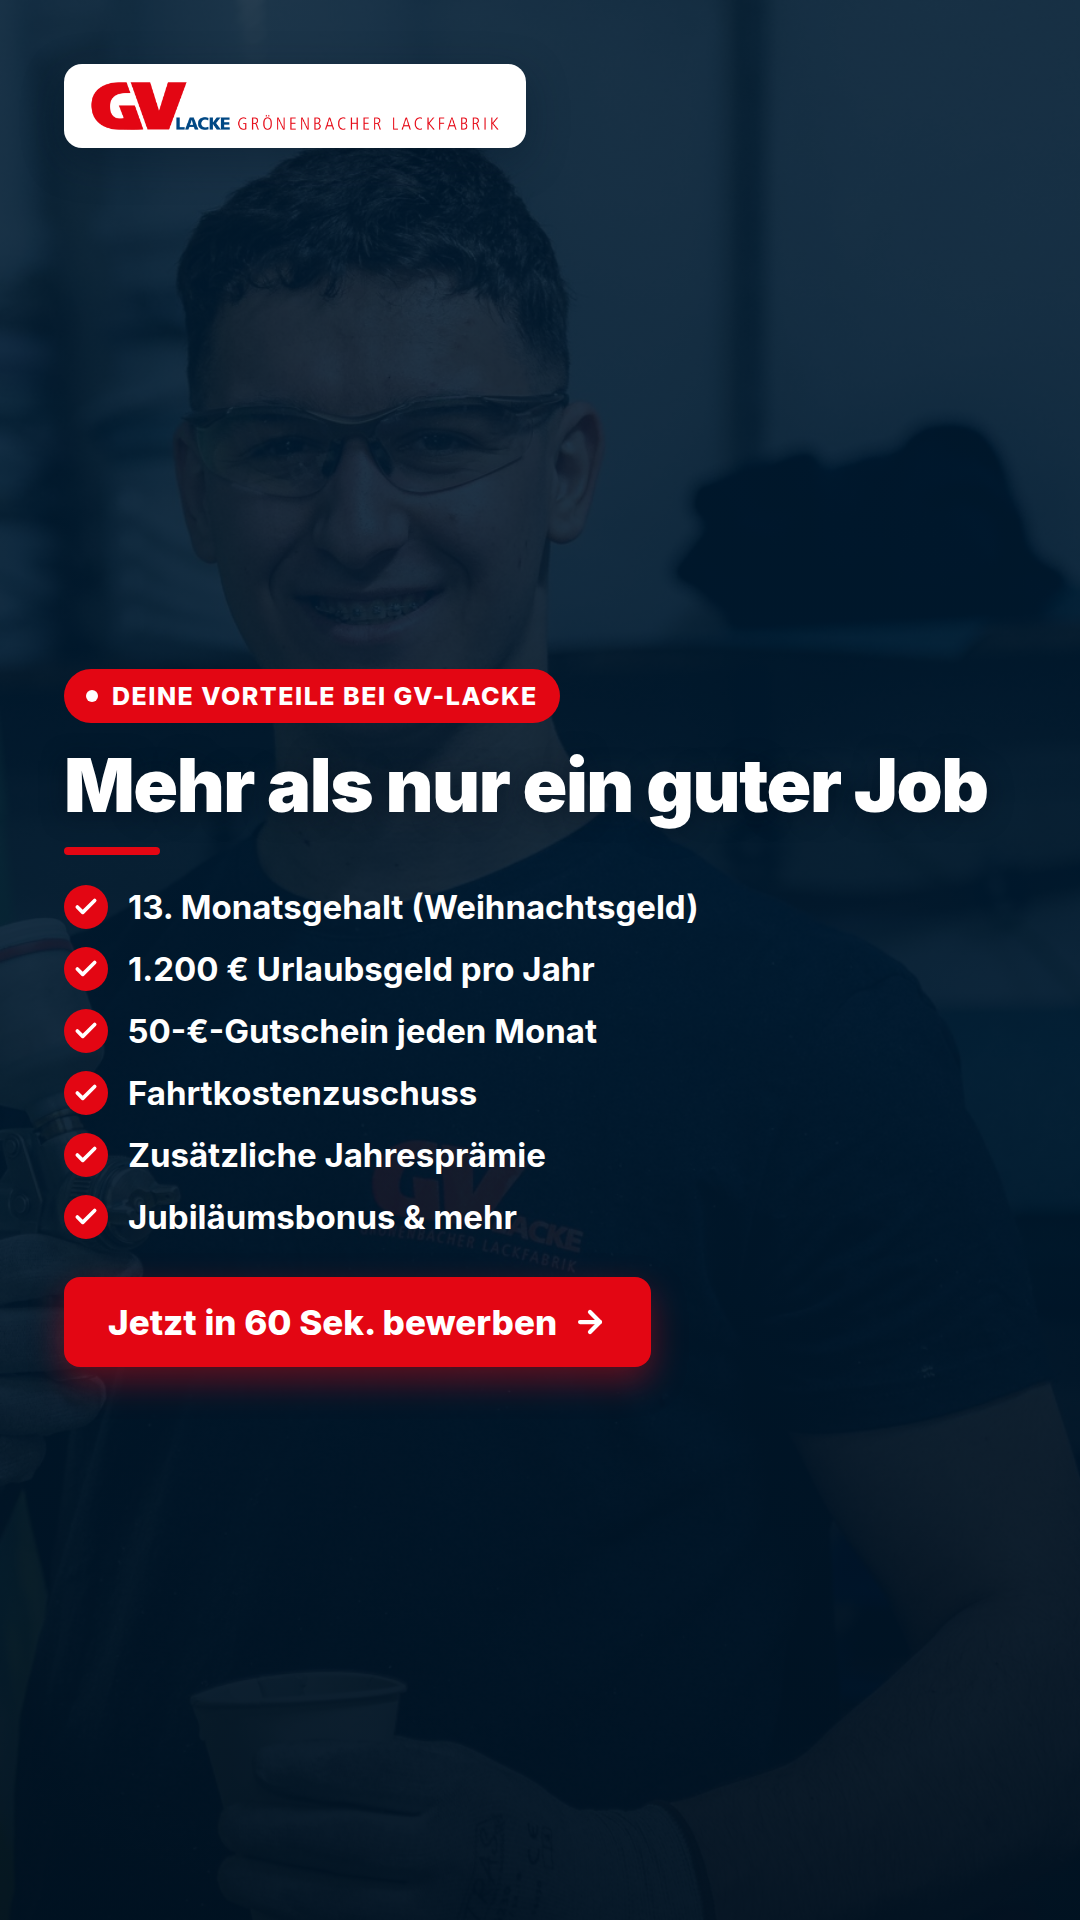
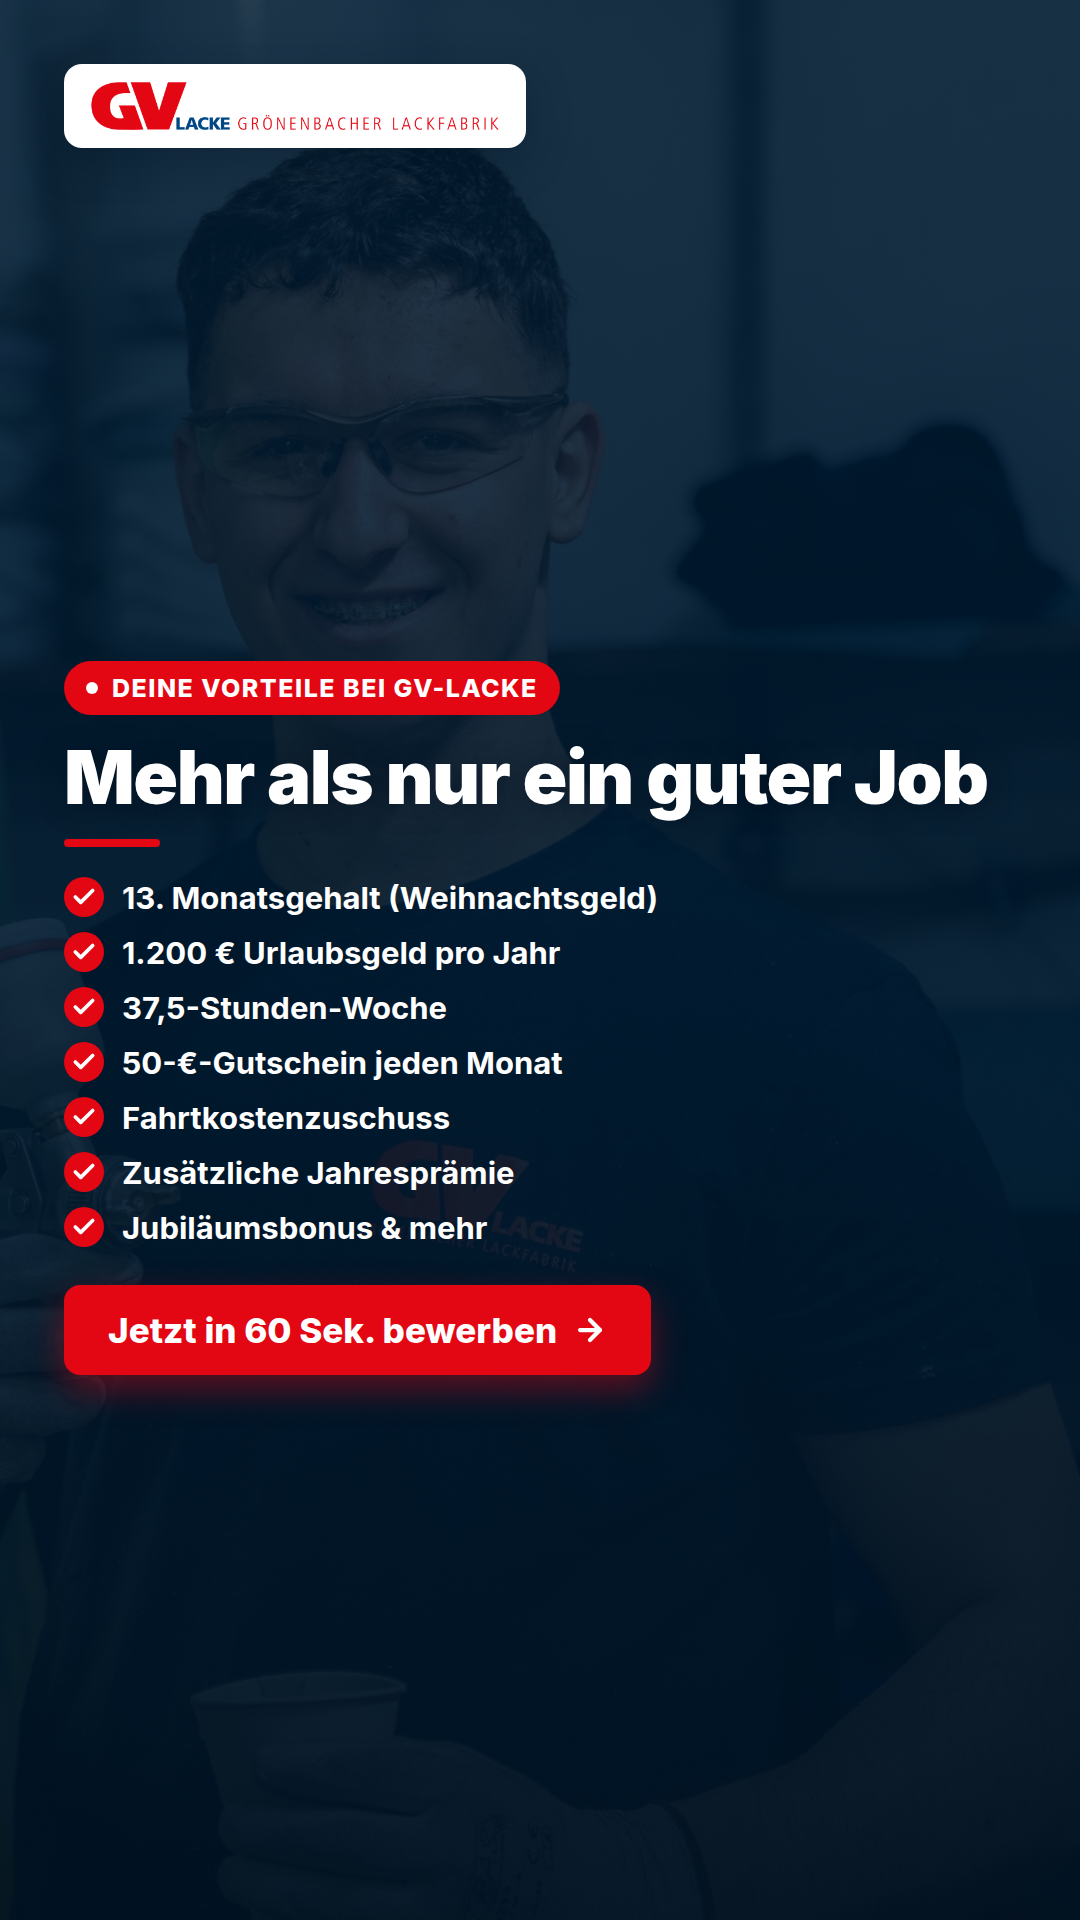
Benefit ergänzt: 37,5-Stunden-Woche
- Neue Benefit-Kachel "37,5-Stunden-Woche" (Website), Grid mittig umbrochen
- 37,5-Stunden-Woche in das Benefits-Creative (04) aufgenommen

Claude-Session: https://claude.ai/code/session_01Q4EAuYrsqog5BJEPYDqsgw

Changed region(s): [[0.0611, 0.3438, 0.7639, 0.7188], [0.7944, 0.375, 0.9167, 0.4375]]

diff --git a/index.html b/index.html
@@ -178,10 +178,9 @@ section[id],.form-card{scroll-margin-top:82px}
 .job__foot .btn{width:100%}
 
 /* ---------- benefits ---------- */
-.benefit-grid{display:grid;grid-template-columns:repeat(3,1fr);gap:22px;margin-top:44px}
-@media(max-width:920px){.benefit-grid{grid-template-columns:repeat(2,1fr)}}
-@media(max-width:560px){.benefit-grid{grid-template-columns:1fr}}
-.benefit{background:#fff;border:1.5px solid var(--line);border-radius:var(--radius);padding:24px 22px}
+.benefit-grid{display:flex;flex-wrap:wrap;justify-content:center;gap:22px;margin-top:44px}
+.benefit{flex:1 1 300px;max-width:356px;background:#fff;border:1.5px solid var(--line);border-radius:var(--radius);padding:24px 22px}
+@media(max-width:560px){.benefit{max-width:none}}
 .benefit__ic{width:46px;height:46px;border-radius:12px;display:grid;place-items:center;background:var(--brand-soft);border:1px solid var(--line-strong);margin-bottom:14px}
 .benefit__ic svg{width:23px;height:23px;stroke:var(--brand)}
 .benefit b{font-family:var(--f-display);font-weight:800;font-size:16.5px;display:block;margin-bottom:6px;color:var(--blue-900)}
@@ -457,6 +456,7 @@ footer{padding:52px 0 36px;background:var(--blue-900);color:#cfe0f2}
     <p class="sec-lead">Als Grönenbacher Lackfabrik produzieren wir seit Jahren hochwertige Lacke &amp; Beschichtungen im Allgäu – mit einem Team, das zusammenhält. Neben fairer Bezahlung erwarten dich echte Zusatzleistungen:</p>
     <div class="benefit-grid">
       <div class="benefit reveal"><div class="benefit__ic"><svg viewBox="0 0 24 24" fill="none" stroke-width="1.8" stroke-linecap="round" stroke-linejoin="round"><path d="M12 22s8-4 8-10V5l-8-3-8 3v7c0 6 8 10 8 10"/><path d="m9 12 2 2 4-4"/></svg></div><b>Unbefristete Festanstellung</b><p>Sicherer Arbeitsplatz in Vollzeit – bei uns weißt du, woran du bist.</p></div>
+      <div class="benefit reveal"><div class="benefit__ic"><svg viewBox="0 0 24 24" fill="none" stroke-width="1.8" stroke-linecap="round" stroke-linejoin="round"><circle cx="12" cy="12" r="9"/><path d="M12 7v5l3 2"/></svg></div><b>37,5-Stunden-Woche</b><p>Geregelte Arbeitszeit mit 37,5 Stunden pro Woche – mehr Zeit für dich.</p></div>
       <div class="benefit reveal"><div class="benefit__ic"><svg viewBox="0 0 24 24" fill="none" stroke-width="1.8" stroke-linecap="round" stroke-linejoin="round"><rect x="3" y="8" width="18" height="4" rx="1"/><path d="M12 8v13"/><path d="M19 12v7a2 2 0 0 1-2 2H7a2 2 0 0 1-2-2v-7"/><path d="M7.5 8a2.5 2.5 0 0 1 0-5C11 3 12 8 12 8"/><path d="M16.5 8a2.5 2.5 0 0 0 0-5C13 3 12 8 12 8"/></svg></div><b>13. Monatsgehalt</b><p>Ein volles 13. Gehalt als Weihnachtsgeld – jedes Jahr obendrauf.</p></div>
       <div class="benefit reveal"><div class="benefit__ic"><svg viewBox="0 0 24 24" fill="none" stroke-width="1.8" stroke-linecap="round" stroke-linejoin="round"><circle cx="12" cy="12" r="4"/><path d="M12 2v2M12 20v2M4.9 4.9l1.4 1.4M17.7 17.7l1.4 1.4M2 12h2M20 12h2M4.9 19.1l1.4-1.4M17.7 6.3l1.4-1.4"/></svg></div><b>Urlaubsgeld: 1.200 €</b><p>1.200 € Urlaubsgeld im Jahr – für eine richtig erholsame Auszeit.</p></div>
       <div class="benefit reveal"><div class="benefit__ic"><svg viewBox="0 0 24 24" fill="none" stroke-width="1.8" stroke-linecap="round" stroke-linejoin="round"><line x1="3" x2="15" y1="22" y2="22"/><line x1="4" x2="14" y1="9" y2="9"/><path d="M14 22V4a2 2 0 0 0-2-2H6a2 2 0 0 0-2 2v18"/><path d="M14 13h2a2 2 0 0 1 2 2v2a2 2 0 0 0 2 2 2 2 0 0 0 2-2V9.83a2 2 0 0 0-.59-1.42L18 5"/></svg></div><b>50-€-Gutschein pro Monat</b><p>Monatlicher Gutschein, z. B. fürs Tanken – steuerfrei obendrauf.</p></div>
